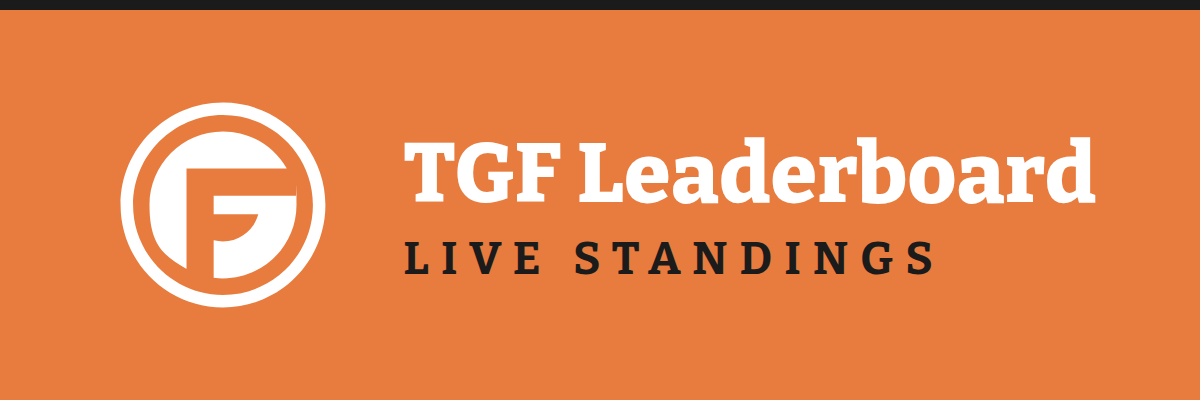
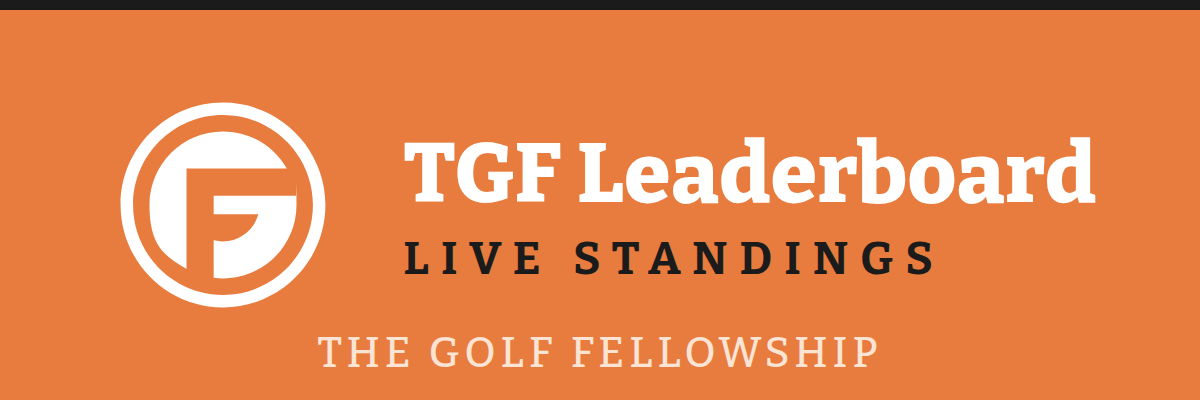
style: THE GOLF FELLOWSHIP footer line on all three preview cards, 2x size (v2.255.6)
Claude-Session: https://claude.ai/code/session_012FvSk9DKuqXMEcTJxKdnKy

Changed region(s): [[0.2467, 0.84, 0.74, 0.93]]

diff --git a/transaction-tracker/templates/contests.html b/transaction-tracker/templates/contests.html
@@ -23,17 +23,17 @@
     {% if lsc_landing %}
     {% set og_title = "The Lone Star Cup Qualifiers" %}
     {% set og_desc = "Austin vs San Antonio — projected rosters live from today's standings, plus points races and Match Play." %}
-    {% set og_image = "/static/og-lone-star-cup.png?v=402" %}
+    {% set og_image = "/static/og-lone-star-cup.png?v=403" %}
     {% elif mp_landing %}
     {% set og_title = "City Match Play — " ~ mp_landing %}
     {% set og_desc = "Follow the matches live — hole-by-hole scorecards, running margins, and the bracket." %}
-    {% set og_image = "/static/og-match-play.png?v=402" %}
+    {% set og_image = "/static/og-match-play.png?v=403" %}
     {% else %}
     {% set og_title = "TGF Leaderboard" %}
     {% set og_desc = "Points races, Match Play, and the Lone Star Cup — live standings for San Antonio & Austin." %}
     {# Wide banner, not the bare app icon — iMessage renders a square
        512px og:image as a huge card (Kerry 2026-08-21: "Way too big"). #}
-    {% set og_image = "/static/og-leaderboard.png?v=402" %}
+    {% set og_image = "/static/og-leaderboard.png?v=403" %}
     {% endif %}
     {% include "_og_meta.html" %}
     <link rel="stylesheet" href="/static/css/dashboard.css?v={{ app_version }}">

diff --git a/transaction-tracker/static/js/version.js b/transaction-tracker/static/js/version.js
@@ -1,5 +1,12 @@
-window.TGF_VERSION = "2.255.5";
+window.TGF_VERSION = "2.255.6";
 window.TGF_CHANGELOG = [
+  {
+    version: "2.255.6",
+    date: "2026-08-21",
+    changes: [
+      "THE GOLF FELLOWSHIP returns to all three link-preview cards as a bottom footer line at twice its original size (42px vs the old 21px), absolutely positioned so the existing centered icon/title/subtitle layouts are untouched. Cache-buster bumped to ?v=403.",
+    ],
+  },
   {
     version: "2.255.5",
     date: "2026-08-21",
